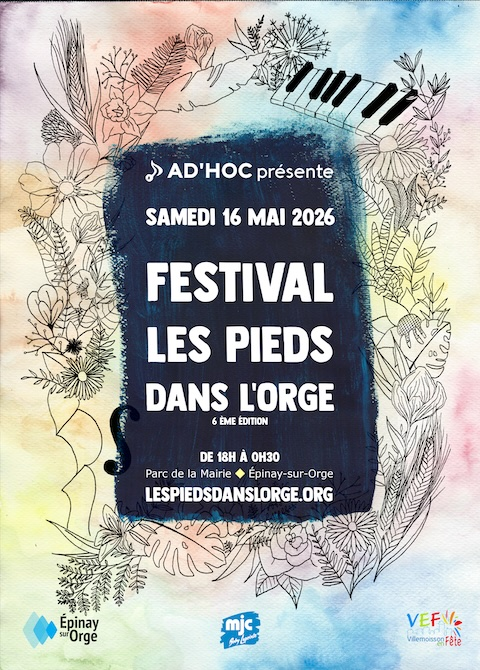
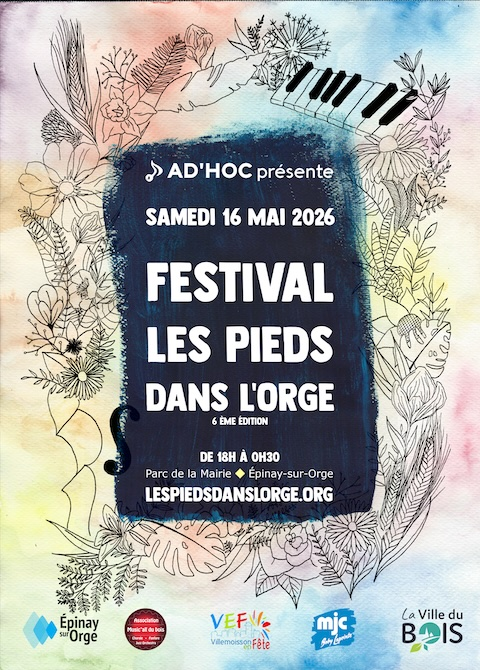
maj affiche, ajout compte à rebours

diff --git a/public/index.html b/public/index.html
@@ -16,7 +16,7 @@
     <meta property="og:image" content="https://lespiedsdanslorge.org/img/affiches/2026/affiche-recto.jpg">
     <link rel="stylesheet" href="/library/bootstrap@5.3.8/bootstrap.min.css">
     <link rel="stylesheet" href="/library/glightbox@3.3.0/glightbox.min.css">
-    <link rel="stylesheet" href="/css/app.css?20260421">
+    <link rel="stylesheet" href="/css/app.css?20260501">
 </head>
 
 <body>
@@ -53,6 +53,30 @@
     </header>
 
     <section class="container-lg">
+
+      <div class="row justify-content-center mb-4">
+        <div class="col-md-8">
+          <div class="row text-center">
+            <div class="col-3">
+              <h3 id="days" class="display-4">00</h3>
+              <p>Jours</p>
+            </div>
+            <div class="col-3">
+              <h3 id="hours" class="display-4">00</h3>
+              <p>Heures</p>
+            </div>
+            <div class="col-3">
+              <h3 id="minutes" class="display-4">00</h3>
+              <p>Minutes</p>
+            </div>
+            <div class="col-3">
+              <h3 id="seconds" class="display-4">00</h3>
+              <p>Secondes</p>
+            </div>
+          </div>
+        </div>
+      </div>
+
         <div class="text-center">
             <img id="flyer-recto" class="visually-hidden" src="#" alt="Flyer Les Pieds dans l’Orge 2026" />
             <img id="flyer-verso" class="visually-hidden" src="#" alt="Flyer Les Pieds dans l’Orge 2026" />
@@ -153,7 +177,7 @@
     <script src="/library/jquery@3.7.1/jquery.min.js"></script>
     <script src="/library/glightbox@3.3.0/glightbox.min.js"></script>
     <script src="/library/bootstrap@5.3.8/bootstrap.bundle.min.js"></script>
-    <script src="/js/app.mjs?20260421" type="module"></script>
+    <script src="/js/app.mjs?20260501" type="module"></script>
 </body>
 
 </html>
